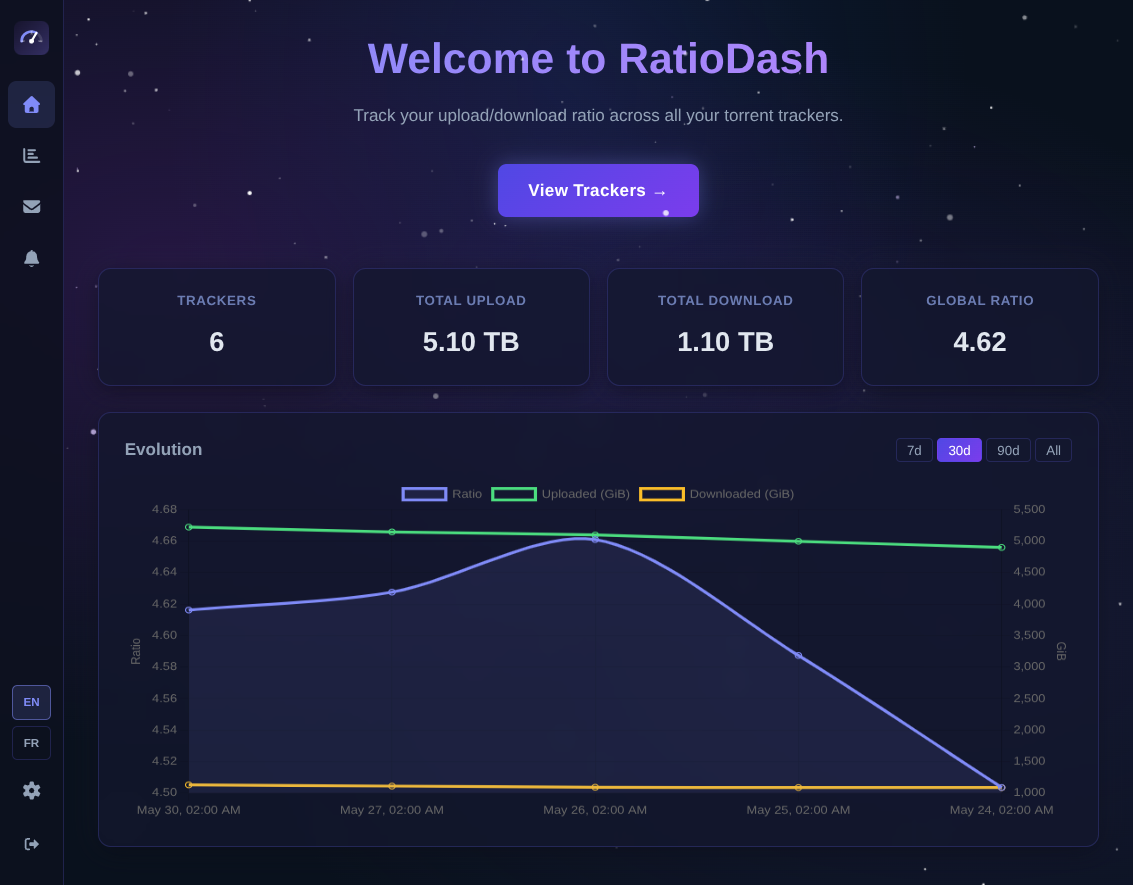
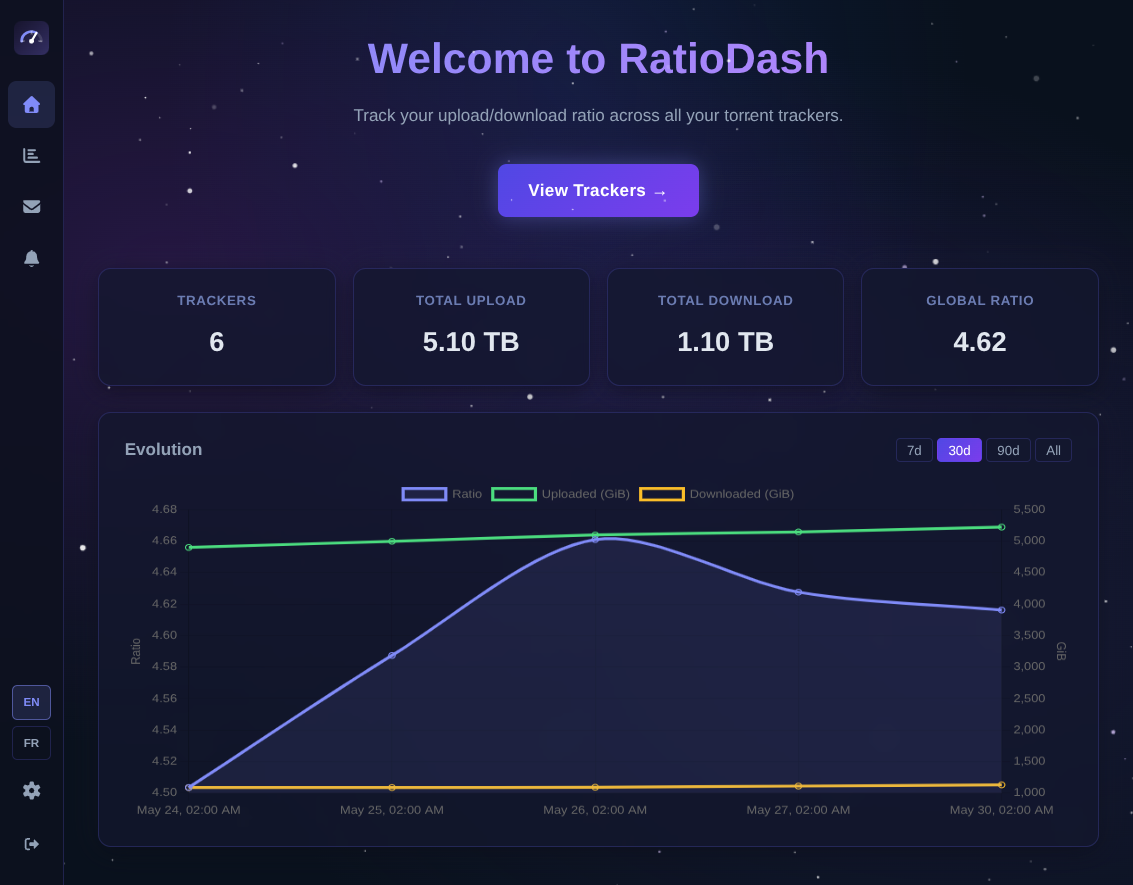
docs(readme): keep only home screenshot

diff --git a/README.md b/README.md
@@ -2,15 +2,7 @@
 
 A self-hosted dashboard for tracking your upload/download ratio across multiple torrent trackers.
 
-## Screenshots
-
-| Title | Image |
-|---|---|
-| Home | ![Home](docs/screenshots/home.png) |
-| Trackers | ![Trackers](docs/screenshots/trackers.png) |
-| Tracker Detail | ![Tracker Detail](docs/screenshots/tracker-detail.png) |
-| Reports | ![Reports](docs/screenshots/reports.png) |
-| Alerts | ![Alerts](docs/screenshots/alerts.png) |
+![Home](docs/screenshots/home.png)
 
 > [!WARNING]
 > **Code quality notice**